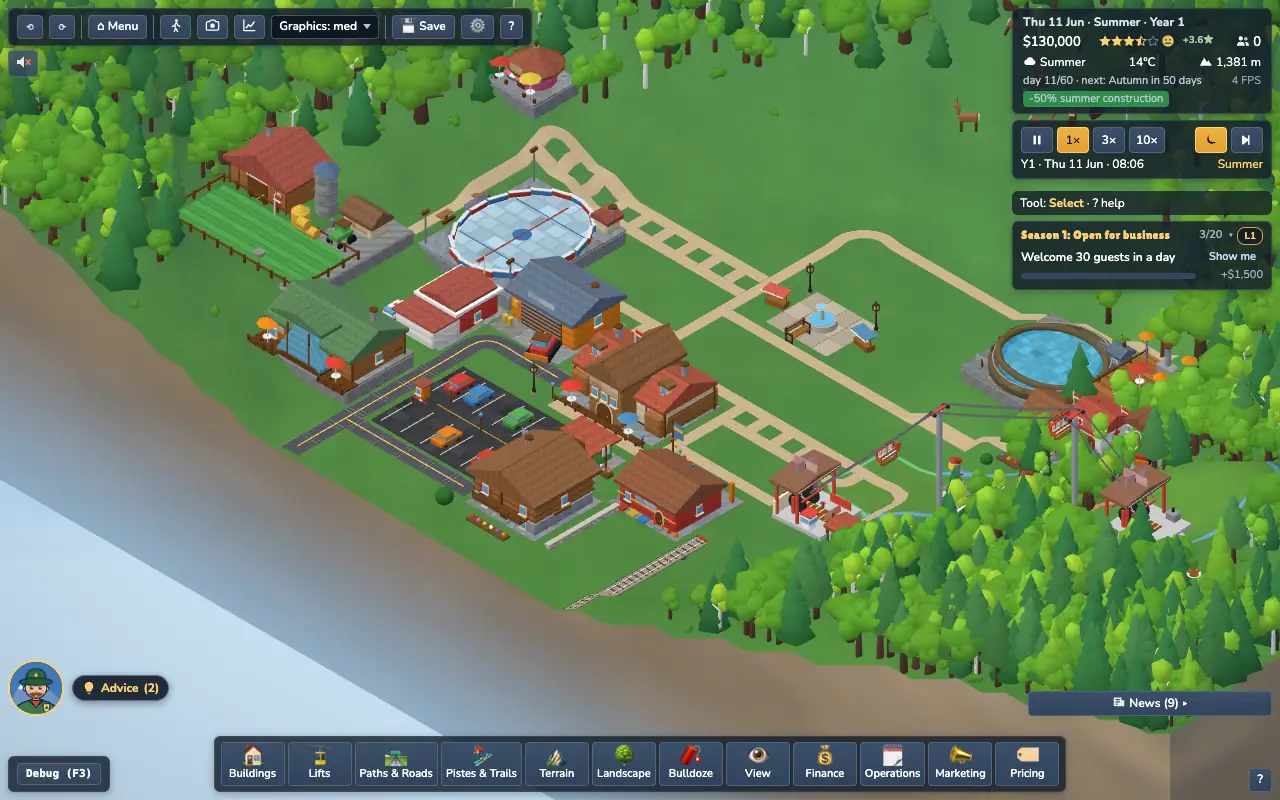
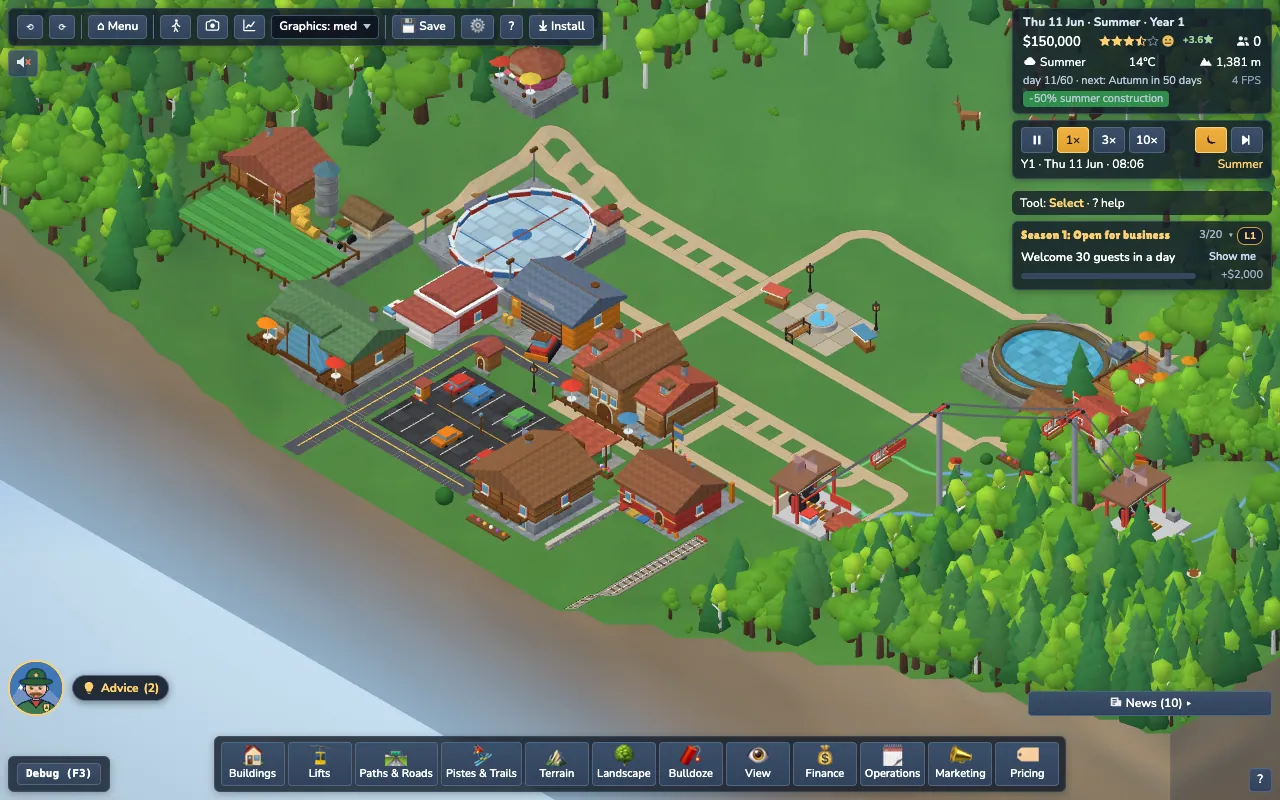
Site and guide for 0.2.5: Eco programme, Crossings, update card, money numbers; 3 new and 5 re-shot screenshots

diff --git a/site/index.html b/site/index.html
@@ -44,7 +44,7 @@
     <div class="card"><h3>Walk your own resort</h3><p>Press <kbd>V</kbd> and drop into first person. Stroll the village, board a lift, take photos from eye level.</p></div>
     <div class="card"><h3>A real snowline, a real calendar</h3><p>Snow depends on altitude and temperature, and the months are the real ones: winter December to March, longest day on 21 June. Spring skiing happens high up while the valley hikes. Plan for it or go broke in April.</p></div>
     <div class="card"><h3>Pistes are runs</h3><p>Every stretch of piste between two junctions is its own run, with a name, difficulty, traffic and an open / close switch. Skiers choose between them.</p></div>
-    <div class="card"><h3>Green energy, with a catch</h3><p>Solar, wind, hydro and biomass take a capped share off your lift energy bill and raise your sustainability score. Energy is never free, so you do the maths.</p></div>
+    <div class="card"><h3>Green energy, with a catch</h3><p>Solar, wind, hydro and biomass take a capped share off your lift energy bill and raise your sustainability score. Energy is never free, so you do the maths. Late game, the Eco Centre adds a funded Eco programme with a carbon-neutral certificate.</p></div>
     <div class="card"><h3>Plays offline</h3><p>Install it like an app. After the first visit the whole game and your saves work without a connection.</p></div>
     <div class="card"><h3>No ads, no accounts, private saves</h3><p>Saves live on your device (export them as <code>.slope</code> files) and are never uploaded. The only thing that can be sent is anonymous usage statistics, and only if you allow it. <a href="./privacy/">Privacy &amp; analytics</a>.</p></div>
   </div>

diff --git a/site/guide/operations.md b/site/guide/operations.md
@@ -3,7 +3,7 @@ title: "Operations & safety"
 order: 6
 summary: "Patrol, first aid, the rescue helicopter, avalanches, wildlife, rangers, lift maintenance, energy and green buildings, crews and courses."
 description: "Run the mountain in Slope Tycoon: ski patrol, first aid, the rescue helicopter, avalanches, wildlife, rangers, lift maintenance, energy, crews and courses."
-screenshots: [ui-staff, ui-maintenance, ui-energy-tab, energy-solar-wind]
+screenshots: [ui-eco-programme, ui-staff, ui-maintenance, ui-energy-tab]
 ---
 Skiing is fun until somebody falls over. The **Operations** drawer and the coverage overlays show how well your resort can cope. Its tabs are **Lifts** (opening hours, the snowmaking row), **Runs** (see [Lifts & pistes](page:lifts-pistes)), **Maintenance** and **Staff**.
 
@@ -74,9 +74,23 @@ Lifts and snow cannons burn energy, and that is a cost line in your books (and a
 | **Tree Nursery** | Raises saplings that count against the forest you felled, and makes replanting cheaper. |
 | **Recycling & Compost Centre** | A flat bonus to the sustainability score (one is enough). |
 
-{{fig:energy-solar-wind}}
-
 How it works: generators cover a **share of the day's lift energy bill**, at most 60 %, hour by hour; the surplus is **not sold**, so energy is never free and overbuilding is wasted money. A solar array or small hydro typically pays itself back in about **3 years**, a turbine in 2.5 to 3, biomass in about 5. Games without generators behave exactly as before.
+
+### Eco Centre and the Eco programme
+
+The **Eco Centre** (Energy tab, resort level 4, $20,000, $18 a day, one per resort, needs a road or footpath) opens the **Eco programme**: select it and press **Open the Eco programme**. Five policies each have a start fee, a daily running cost and a trade-off:
+
+| Policy | Fee | Per day | Points | Trade-off |
+|---|---:|---:|---:|---|
+| Electric snowcats & groomers | $3,500 | $14 | +4 | running cost; saves fuel |
+| Car-free village | $4,000 | $12 | +5 | slightly fewer arrivals |
+| Habitat corridors & wildlife protection | $3,000 | $12 | +7 | forestry crew and fencing |
+| Local produce & zero-waste kitchens | $2,500 | $8 | +4 | supplier cost; restaurants earn a little more |
+| Smart snowmaking & dimmed lifts | $3,000 | $8 | +5 | controls cost more than they save at first |
+
+Hold three policies with renewables covering at least 20 % of your energy for ten days in a row and the **carbon-neutral certificate** is yours (fee $5,000, then $5 a day while the audit runs): another 4 points and a lasting boost to arrivals. Together the programme can lift the Sustainability score by **up to 29 points**. It costs about $77 a day and roughly pays for itself, so it is a strategic choice rather than a money machine. Demolish the centre and everything pauses at no cost. Ranger Rudi suggests it when Sustainability is your weakest area.
+
+{{fig:ui-eco-programme}}
 
 Inspectors show **output now**, today, yesterday and the share of the bill each unit offsets. The **sustainability** facet of your rating counts the **net grid purchase per guest** (what you still buy), so generators raise it; recycling adds a few points and nursery saplings count against felled trees. Ranger Rudi suggests a Solar Array when energy is your weakest green spot. See [Events, stories & the region](page:events) for the Green Resort award.
 

diff --git a/site/guide/interface.md b/site/guide/interface.md
@@ -31,7 +31,7 @@ Each button opens a **drawer** with items or panels. Click again, or press <kbd>
 |---|---|
 | Buildings | Everything you can build, in tabs by type |
 | Lifts | The eleven lift types |
-| Paths & Roads | Footpaths, roads and rail |
+| Paths & Roads | Footpaths, roads and rail, with the **Crossings** choice (level crossing or bridge over rail; bridges over water are automatic) |
 | Pistes & Trails | Ski pistes by difficulty, plus hiking and biking trails |
 | Terrain | Raise, lower, flatten, smooth the ground (sculpting only) |
 | Landscape | Dig ponds, boulders, plant or clear trees, garden decor (see [Building](page:building)) |
@@ -49,7 +49,14 @@ The **View** drawer groups **Camera** (rotate, zoom), **Modes** (ride-along, wal
 ## Bottom left and right
 
 - **Advice** (bottom left, next to Rudi's face) shows up to three suggestions. **Show me** moves the camera (or opens the right drawer and highlights the card); **Dismiss** hides one for 30 in-game days.
+- **Advice** shows Rudi's full message: the card grows to a maximum height and the list scrolls, instead of cutting text with an ellipsis. Goal names in the Goals card wrap too.
 - **News** (bottom right) collects events, milestones and guest reviews. Important ones pop up as toasts.
+
+## Update card, What's new and About
+
+When a new version is waiting, a small card at the top left (nothing is paused) lists a few highlights, with **Reload now** (autosaves first) and **Later** (a picture is in [Saves, offline & install](page:saves)).
+
+The first time you launch a new version you get a one-time **What's new** card, and the **About** dialog (Menu) has a *What's new* button and a discreet **Support the game** link to GitHub Sponsors. It is a plain link that opens only when you click it; the game stays free, with no ads and no nagging.
 
 ## Help, pause and the camera
 

diff --git a/site/guide/saves.md b/site/guide/saves.md
@@ -3,7 +3,7 @@ title: "Saves, offline & install"
 order: 14
 summary: "Quick save, slots, autosave, exporting .slope files, and playing offline as an installed app."
 description: "Slope Tycoon saves: quick save, slots, autosave, exporting .slope backup files, and playing offline as an installed app. Everything stays on your device."
-screenshots: [ui-saveload]
+screenshots: [ui-saveload, ui-update-card]
 ---
 {{fig:ui-saveload}}
 
@@ -25,10 +25,12 @@ Saves are stored **in your browser on this device** (IndexedDB). There is no acc
 
 ## Offline and installing
 
-After your first visit the game caches itself, so it **works without a network** (an *Offline* pill appears in the top bar). When an update is available, you get an *Update available* toast; the game saves before it reloads.
+After your first visit the game caches itself, so it **works without a network** (an *Offline* pill appears in the top bar). When an update is available, a small card appears (nothing is paused) saying *A new version is available* with a few highlights of what changed. **Reload now** saves first and reloads; **Later** hides it for an hour. Offline it just says *A new version is ready*. The first time you start a new version you also get a one-time *What's new* card, and the **About** dialog has a *What's new* button.
 
 - **Chrome / Edge**: click **Install** in the top bar (or the install icon in the address bar).
 - **iPhone / iPad**: Safari → Share → Add to Home Screen.
 - Updates reach you within about ten minutes of a new release.
+
+{{fig:ui-update-card}}
 
 The website you are reading and the game are separate: the website needs no service worker, only the game is installable.

diff --git a/site/guide/rails-bridges.md b/site/guide/rails-bridges.md
@@ -3,8 +3,12 @@ title: "Rails, crossings & bridges"
 order: 3.5
 summary: "Level crossings and the footbridge over rail, bridges over streams, ponds and gaps for footpaths, trails and roads."
 description: "Slope Tycoon guide to rails, level crossings, footbridges over the rail and bridges over streams: how to build them, what they cost and why one is refused."
-screenshots: [crossing-closed, footbridge-rail, bridges-stream]
+screenshots: [ui-crossings, crossing-closed, footbridge-rail, bridges-stream]
 ---
+{{fig:ui-crossings}}
+
+There is no bridge tool: bridges are part of drawing a path. Both the **Paths & Roads** and the **Pistes & Trails** drawers have a **Crossings** section that says what happens where: over rail you choose *Level crossing* (default) or *Bridge*; over water and gaps it is always a bridge, built automatically; where a path or road meets another one they simply merge.
+
 {{fig:crossing-closed}}
 
 **Level crossings.** Drag a **Footpath** or **Road** across a straight rail line at a right angle (from the **Paths & Roads** drawer) and it becomes a level crossing: a footpath crossing costs $150 extra, a road crossing $400. A few seconds before a train arrives the barriers come down, red lamps blink and a quiet bell rings; guests and cars wait on the approach side and go on once the train has passed. Trains never stop for anyone, and nobody is ever run over. Crossings need a straight line, can't be next to another crossing (two tiles of room) or at a station, and a building can't stand on one. Bulldozing a crossing turns the tile back into plain rail.

diff --git a/site/guide/money.md b/site/guide/money.md
@@ -58,9 +58,9 @@ Festivals have their own cards just below the campaigns: see [Events, stories & 
 
 | Difficulty | Feel |
 |---|---|
-| Relaxed | More starting money, cheaper upkeep, patient guests, fewer incidents |
-| Normal | The intended balance |
-| Challenging | Less money, higher upkeep and interest, pickier guests, more incidents |
+| Relaxed | More starting money ($225,000), cheaper upkeep, patient guests, fewer incidents |
+| Normal | The intended balance: $150,000 to start |
+| Challenging | Less money ($112,500), higher upkeep and interest, pickier guests, more incidents |
 
 > [!TIP] Rudi's “cash runway” advice appears when you have under five days of upkeep in the bank. Believe him.
 
@@ -74,4 +74,4 @@ Festivals have their own cards just below the campaigns: see [Events, stories & 
 - **Campaigns need cash** (keep $20,000 spare). *Come by Train* is a good cheap filler once a Train Station stands.
 - **Avoid** building everything on day one, training every staff course in year 1 and big early terraforming.
 
-Ranger Rudi shows a **Cash tips** card when your cash is thin early in the game.
+The quiet months are cheaper than they used to be: idle lifts draw about a quarter of their energy, closed winter venues cost 15 % of their upkeep and furloughed staff 35 % of their wages. Ranger Rudi shows a **Cash tips** card when your cash is thin in the first two years, and his *In debt* advice lists concrete ways out (Starter loan, resting lifts, pausing building).

diff --git a/site/guide/glossary.md b/site/guide/glossary.md
@@ -29,6 +29,8 @@ screenshots: []
 
 **Energy grid** The generators (solar, wind, hydro, biomass) that offset a capped share of your lift energy bill.
 
+**Eco Centre** A level-4 building that opens the *Eco programme*: five paid policies and a carbon-neutral certificate that lift the Sustainability score by up to 29 points.
+
 **Events strip** The January to December overview in the Events calendar.
 
 **Facilities** The rating bar (6 %) for toilets: comfort satisfaction, coverage of pistes and village, blocks per guest.
@@ -37,7 +39,7 @@ screenshots: []
 
 **Fast nights** An option that makes nights pass faster.
 
-**Footbridge** A raised timber crossing for footpaths: over a rail line (no waiting for trains) or over a stream (Bridge tool).
+**Footbridge** A raised timber crossing for footpaths: over a rail line (no waiting for trains) or over a stream, pond or gap. Bridges are built as part of drawing the path; there is no separate tool.
 
 **Green Resort** A year-report award for a resort that is gentle on forest, wildlife and energy.
 

diff --git a/site/guide/lifts-pistes.md b/site/guide/lifts-pistes.md
@@ -54,6 +54,8 @@ Paint pistes by **difficulty**: green (easy), blue, red and black. The game colo
 - **Steepness**: a piste's real slope decides how hard it feels. A “green” painted on a cliff is still a cliff.
 - **Variety**: a good resort offers all difficulties; a goal asks for runs of green, blue and red, and another for a black run.
 
+Trails cross water and rails too: drag a hiking or MTB trail over a pond, stream or gap and a wooden hiking bridge or MTB bridge is built as part of the stroke; over rail the **Crossings** section lets you choose a level crossing or a footbridge / MTB ramp bridge ($900 / $1,100). Ski pistes stop at water and rail. See [Rails, crossings & bridges](page:rails-bridges).
+
 > [!NOTE] **Hiking and biking trails can be painted all year**, including in deep winter: snow cover does not block them (they are just not used much until the snow melts).
 
 ### Runs
